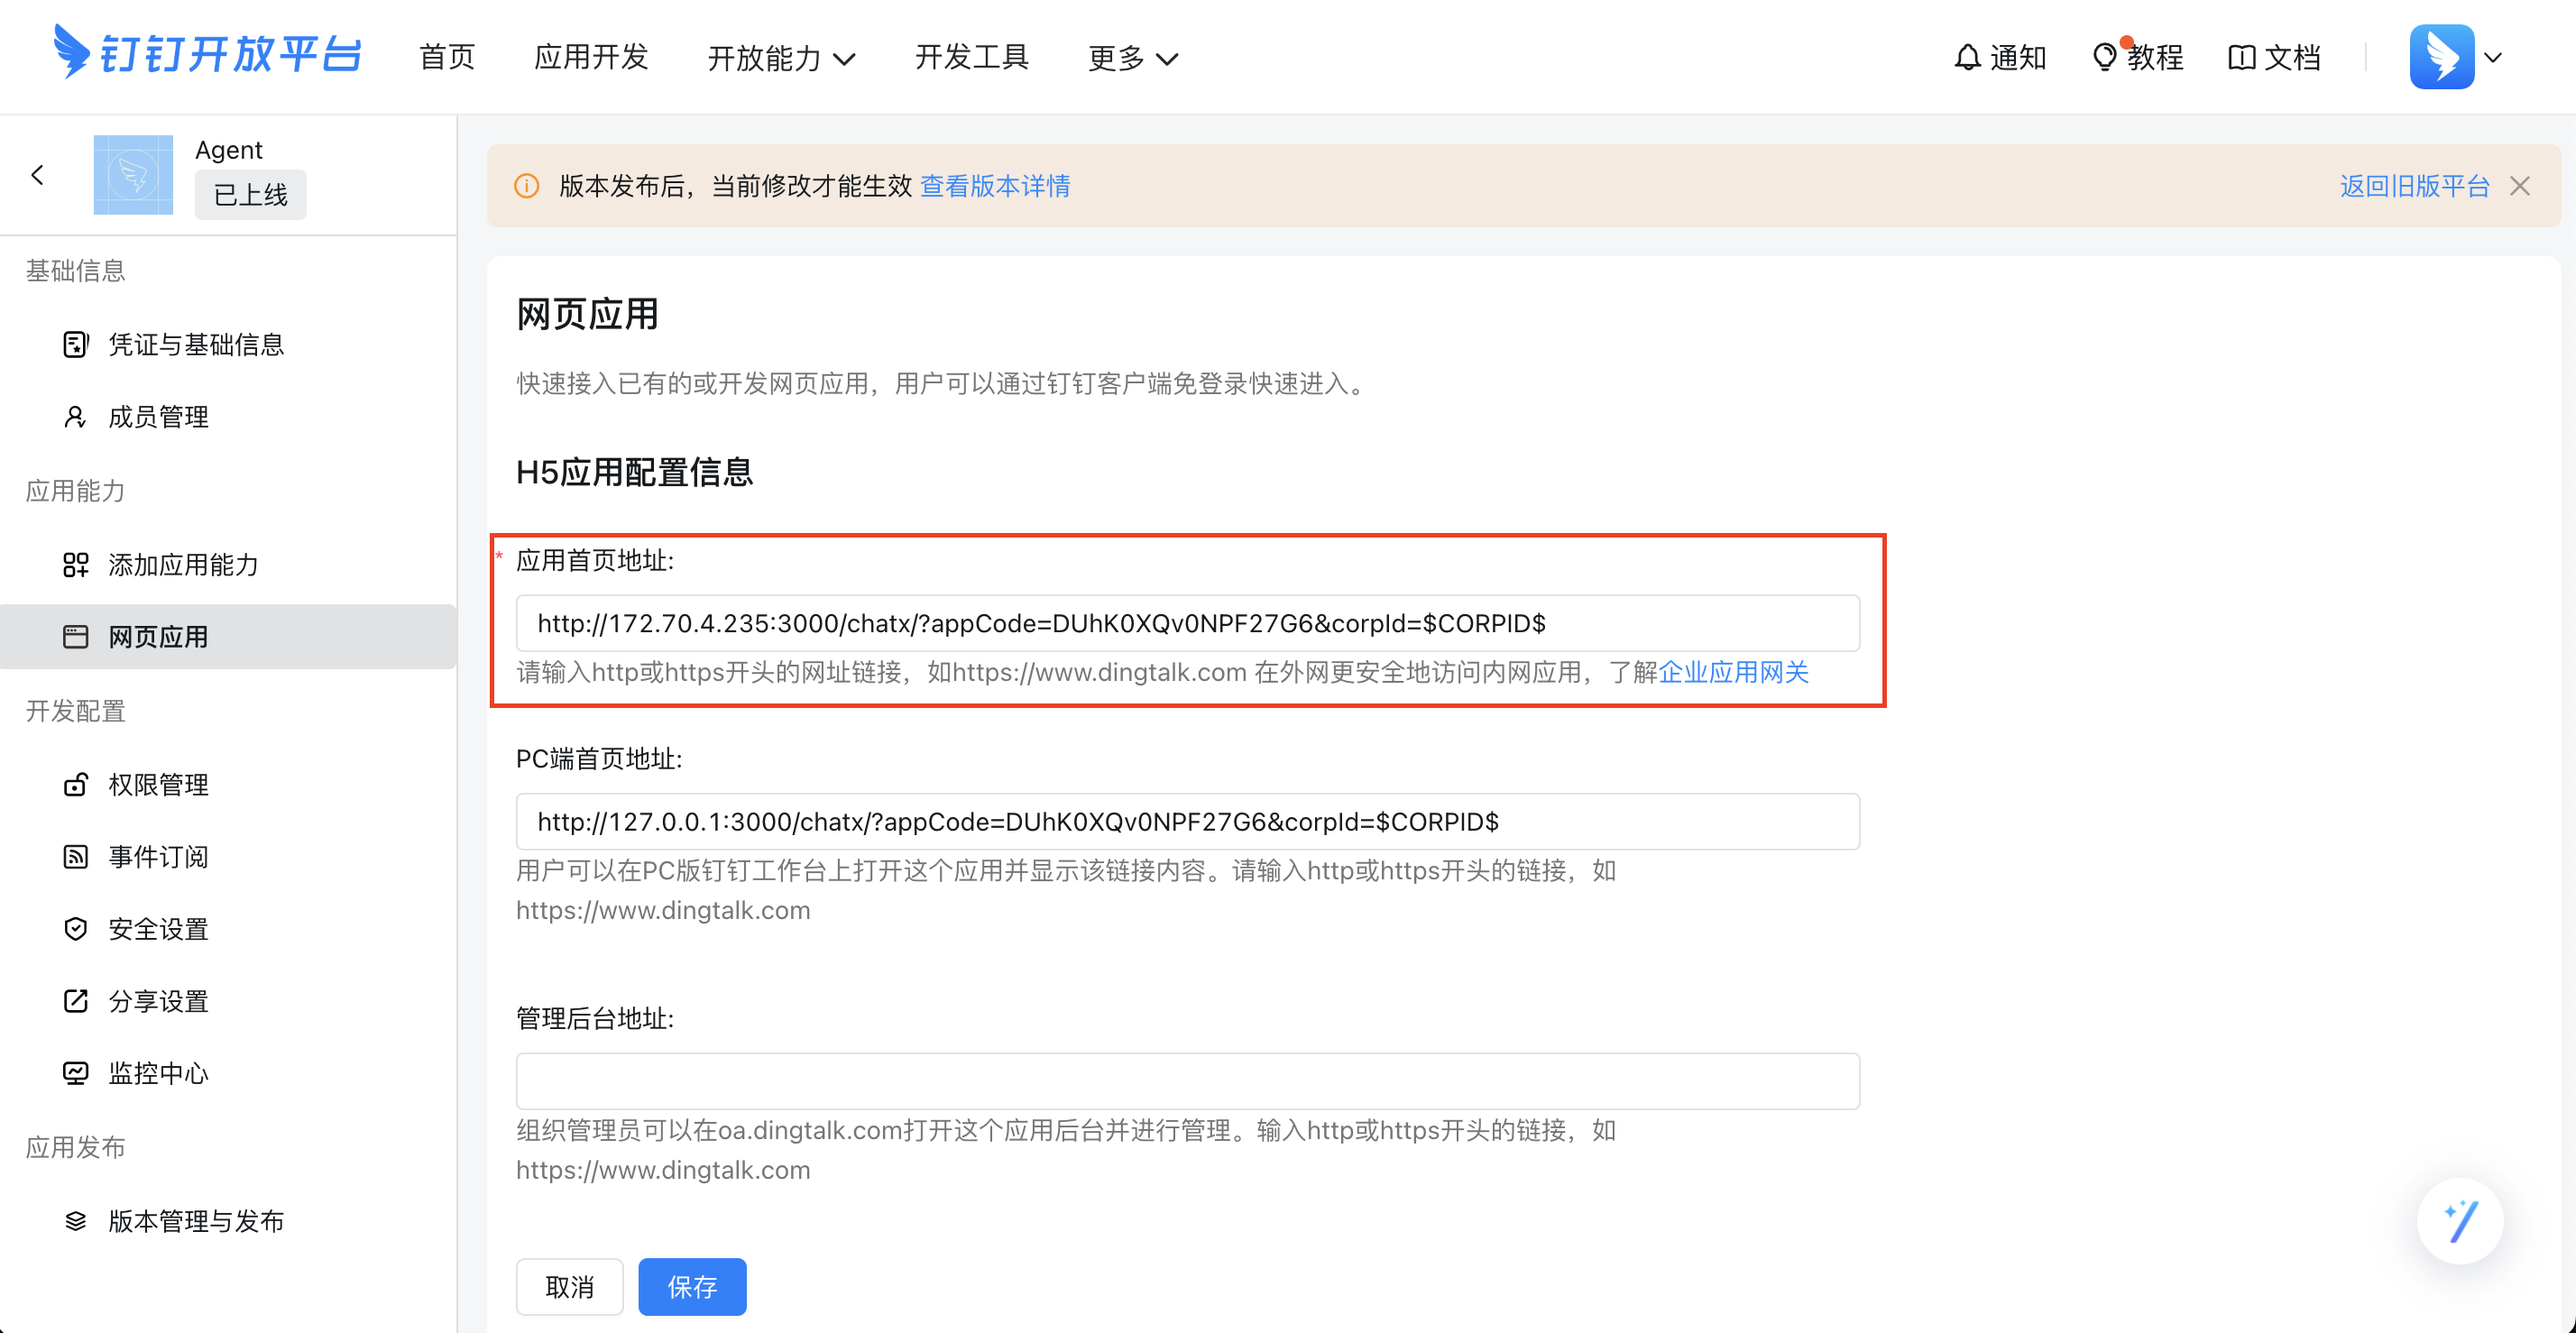
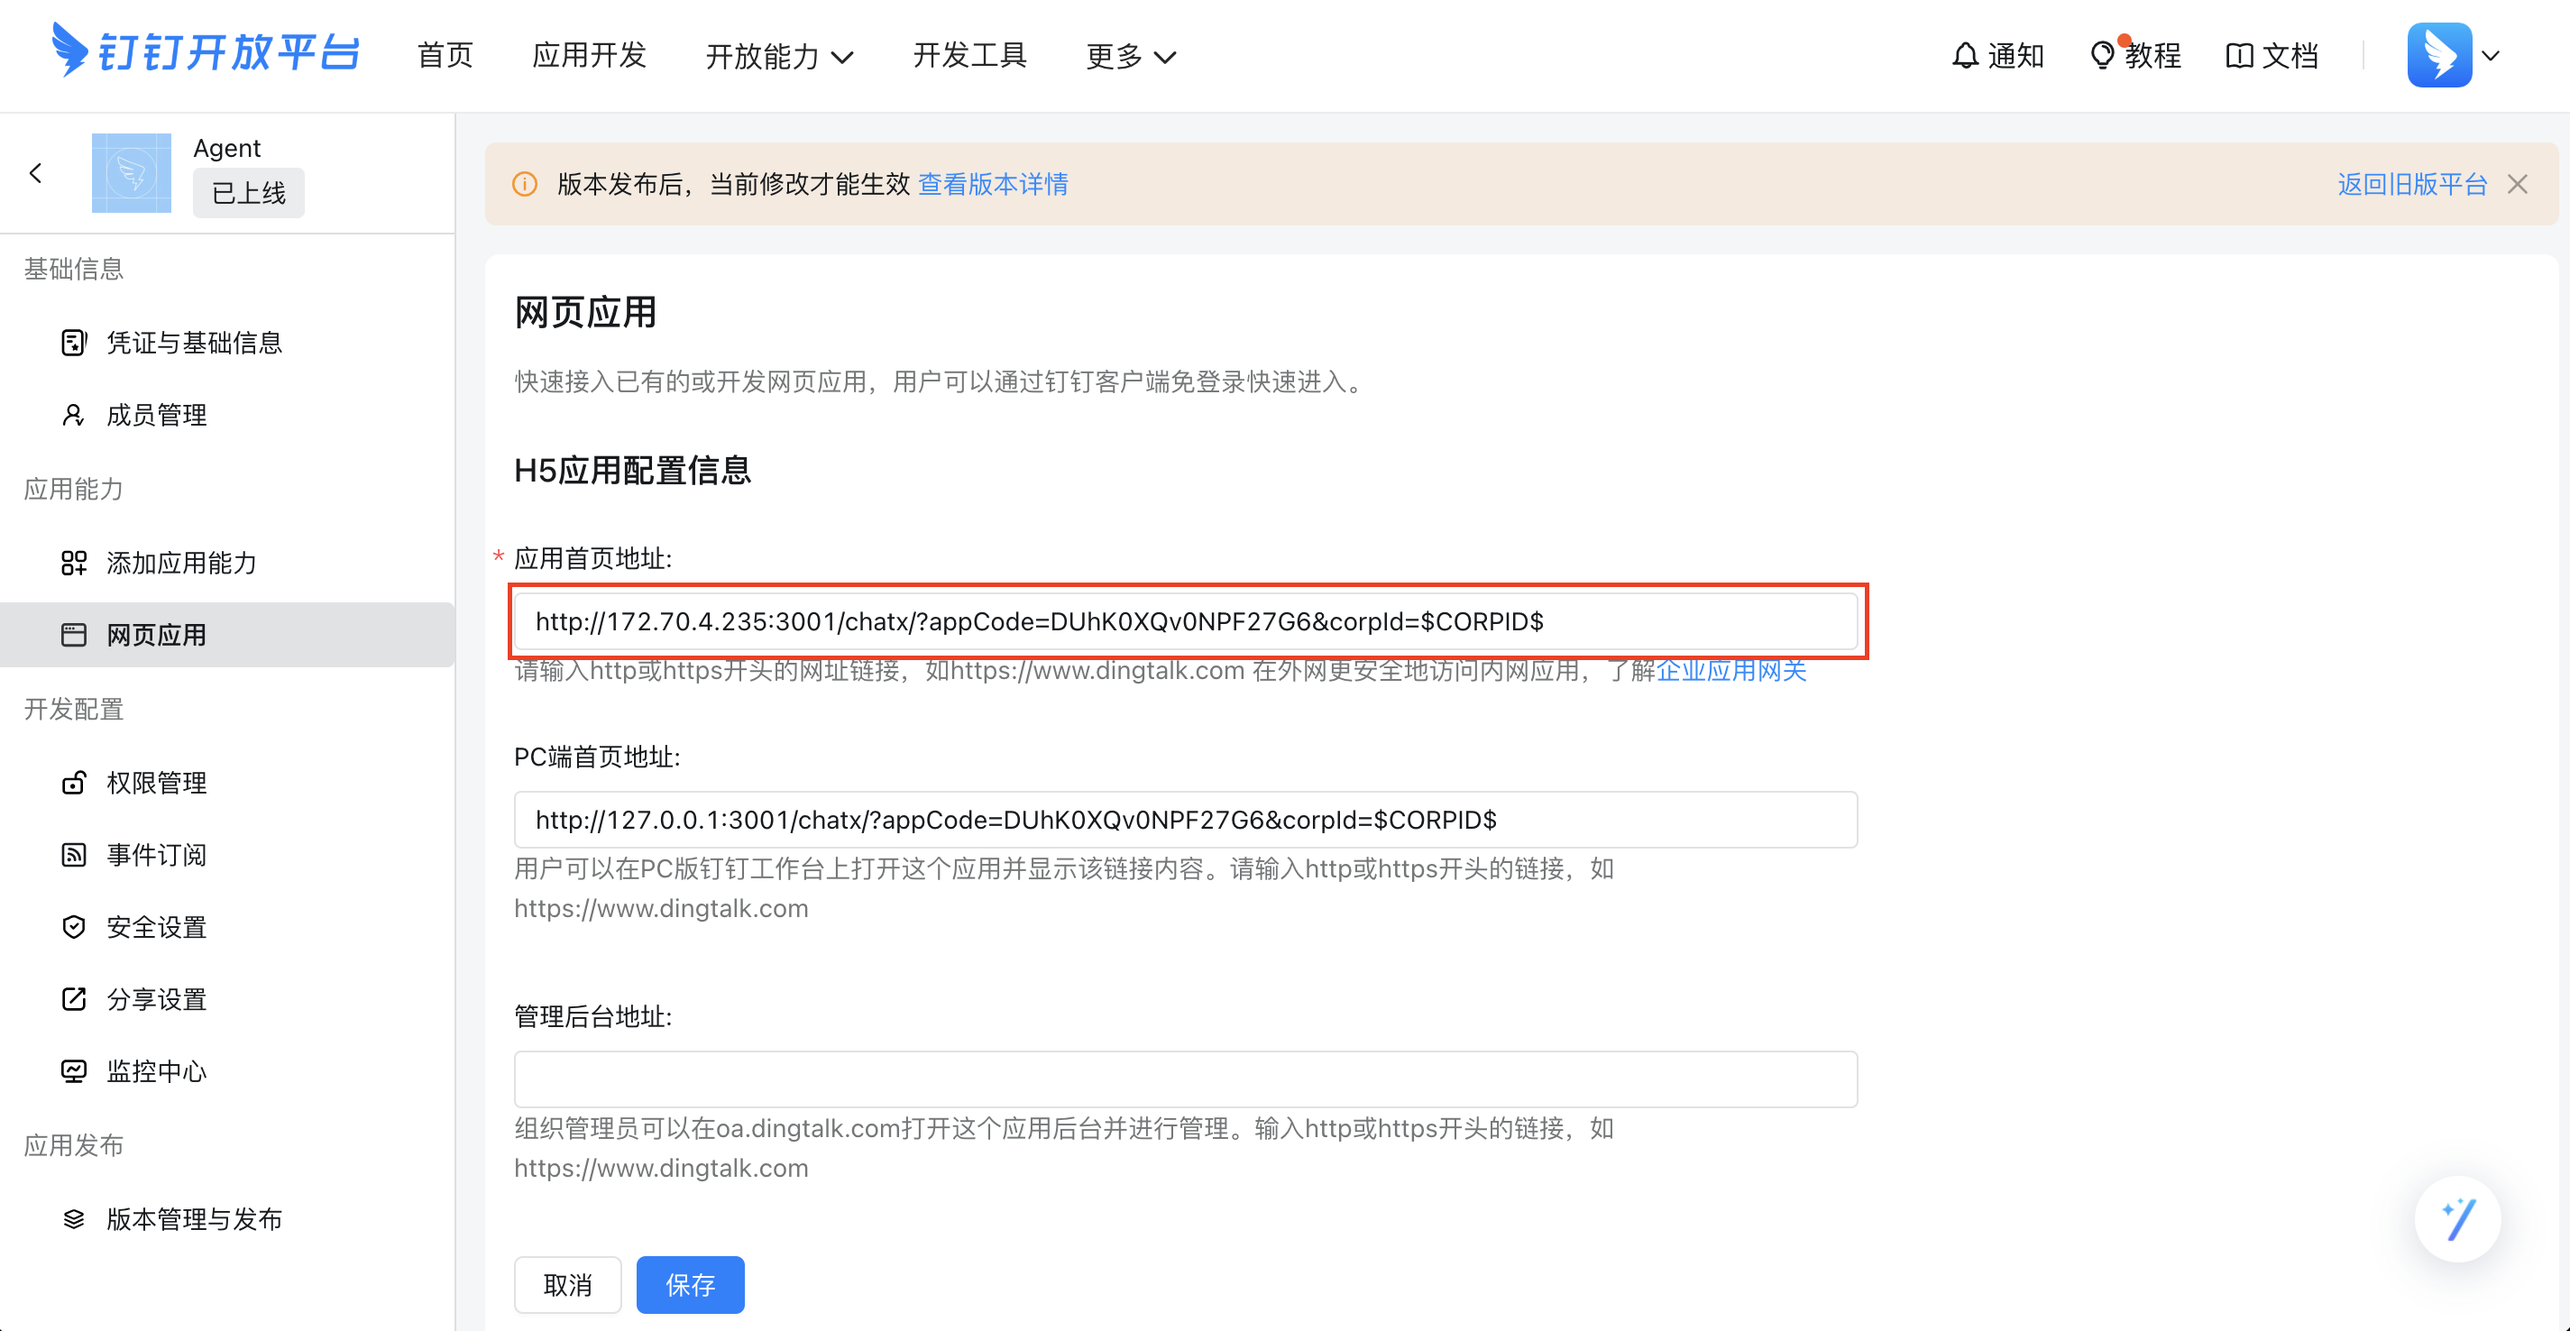
change frontend port to 3001 as dify uses 3000 already

diff --git a/web/vite.config.js b/web/vite.config.js
@@ -19,7 +19,7 @@ export default defineConfig({
   },
   server: {
     host: '0.0.0.0',
-    port: 3000,
+    port: 3001,
     proxy: {
       "/api/": {
         target: "http://127.0.0.1:5001"

diff --git a/document/create_dd_app.md b/document/create_dd_app.md
@@ -6,7 +6,11 @@ Then in [Dingtalk console](https://open-dev.dingtalk.com/fe/app?hash=%23%2Fcorp%
 
 ![image](./images/dd_create_app.png)
 
-in app setting, enter our agent's url
+in app setting, enter our agent's url, in my case:
+
+```
+http://172.70.4.235:3001/chatx/?appCode=DUhK0XQv0NPF27G6&corpId=$CORPID$
+```
 
 ![image](./images/dd_agent_url.png)
 
